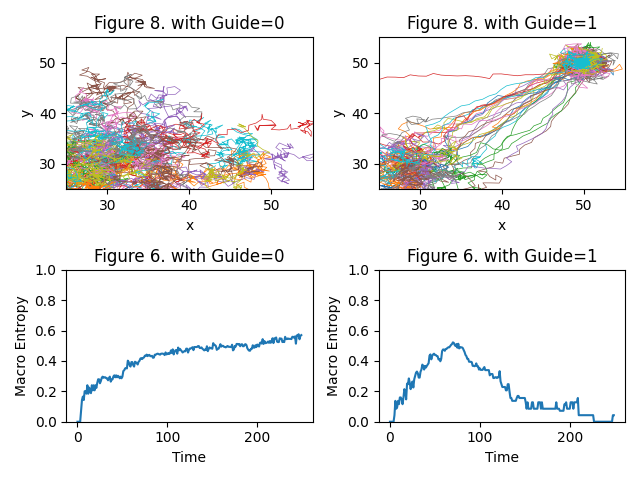
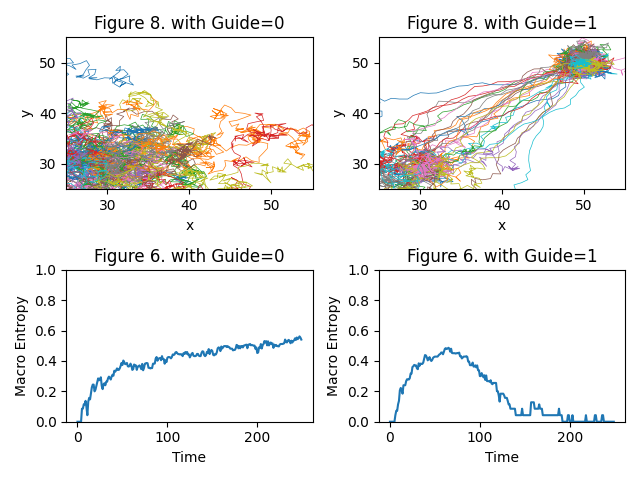
forgot to seed

diff --git a/reproduce_parunak_paper/main.py b/reproduce_parunak_paper/main.py
@@ -3,12 +3,13 @@
 
 import numpy as np
 import matplotlib.pyplot as plt
+np.random.seed(0)
 fig, axes = plt.subplots(nrows=2, ncols=2)
 
 for guide in range(2):
     total_timesteps = 250
     total_run = 30
-    log_30 = np.log(30)
+    log_30 = np.log(total_run)
     rho = 20
     rho_2 = rho*rho
 

diff --git a/README.md b/README.md
@@ -1,3 +1,27 @@
 # PoCS
 For PoCS 300 Course Project
 
+# Different ways of calculating entropy
+
+![Entropy Equation](https://latex.codecogs.com/gif.latex?%5CLARGE%20H%20%3D%20-%5Csum_i%5En%20p_i%20%5Clog%20p_i)
+
+* `p_i` 
+Quantifying Organization by Means of Entropy
+https://ieeexplore-ieee-org.ezproxy.uvm.edu/document/4471956
+
+
+* `i` stands for different state of one vehicle:
+
+Cross-Entropy as a Metric for the Robustness of Drone Swarms
+https://www.mdpi.com/1099-4300/22/6/597
+
+* `i` stands for different state (location or direction) of one vehicle:
+
+Entropy and self-organization in multi-agent systems
+https://dl.acm.org/doi/abs/10.1145/375735.376024
+
+
+* `i` stands for the state of connections among vehicles:
+
+
+
